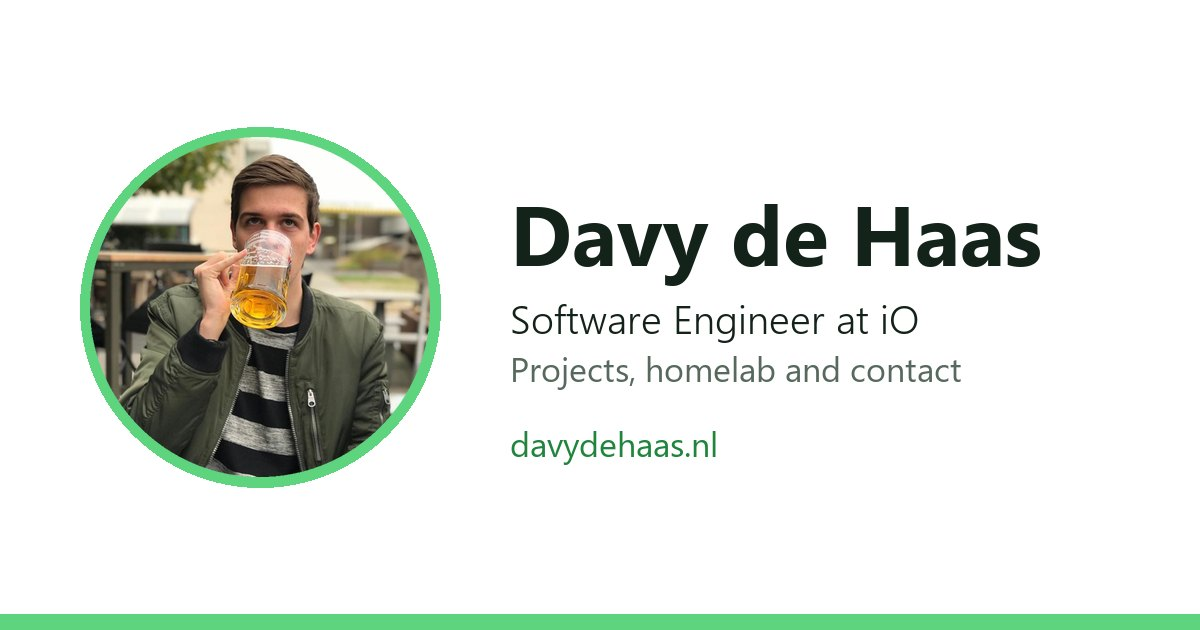
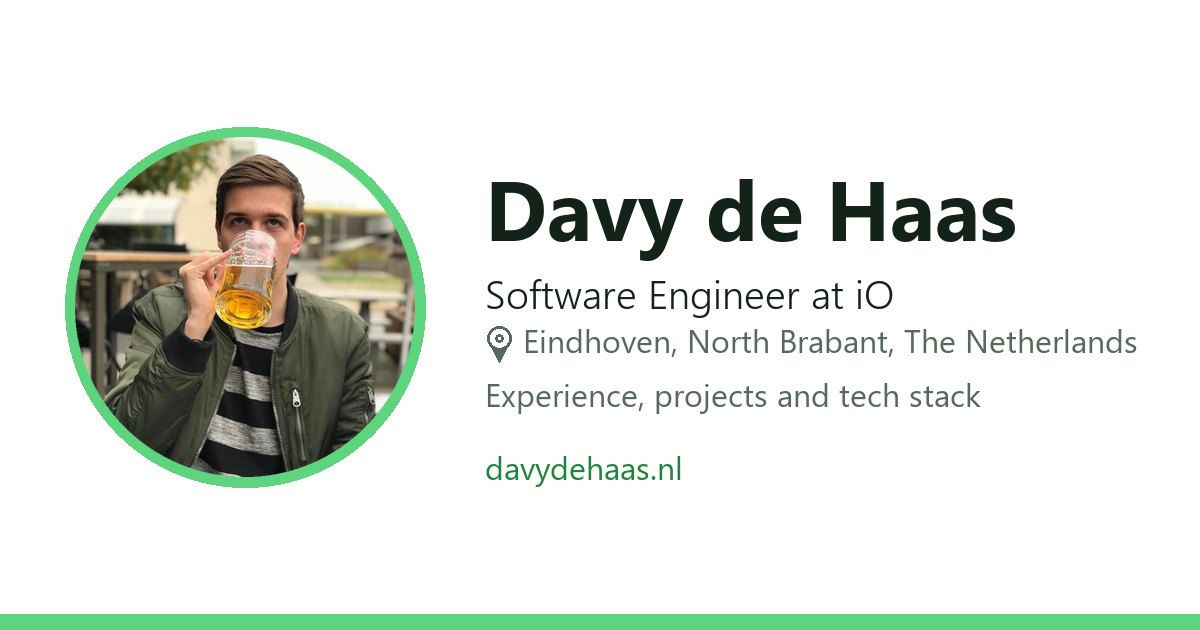
Add the location and a longer intro

Changed region(s): [[0.0308, 0.181, 0.37, 0.7841], [0.4008, 0.2714, 0.9558, 0.6635], [0.4008, 0.6937, 0.6167, 0.7841]]

diff --git a/src/App.test.tsx b/src/App.test.tsx
@@ -39,12 +39,19 @@ describe('App', () => {
 
     expect({
       name: screen.getByRole('heading', { level: 1 }).textContent,
+      intro: texts(within(document.getElementById('home')!).getAllByRole('paragraph')),
       sections: screen.getAllByRole('region').map((region) => region.id),
       navigation: within(nav)
         .getAllByRole('link')
         .map((link) => [link.textContent, link.getAttribute('href')]),
     }).toEqual({
       name: 'Davy de Haas',
+      intro: [
+        'Software Engineer at iO',
+        'Eindhoven, North Brabant, The Netherlands',
+        'I build backend systems and the infrastructure they run on. At iO I work on software for clients such as Brussels Airport, Signify, Basispoort, Nationale Apotheek and Favorite Gifts, mostly with Java (Spring) and TypeScript (NestJS). At home I run a Kubernetes cluster on Talos Linux, which also hosts this website.',
+        'Tech stack',
+      ],
       sections: ['experience', 'projects', 'contact'],
       navigation: [
         ['Davy de Haas', '#home'],
@@ -120,15 +127,15 @@ describe('App', () => {
       ),
     }).toEqual({
       current: {
-        details: ['iO · Full-time', 'Eindhoven'],
+        details: ['iO · Full-time', 'Eindhoven, North Brabant, The Netherlands'],
         when: ['Jan 2022 – Present', '4 yrs 11 mos'],
       },
       internship: {
-        details: ['The Valley · Internship', 'Amsterdam'],
+        details: ['The Valley · Internship', 'Amsterdam, North Holland, The Netherlands'],
         when: ['Feb 2019 – Jul 2019', '6 mos'],
       },
       study: {
-        details: ['Eindhoven University of Technology'],
+        details: ['Eindhoven University of Technology', 'Eindhoven, North Brabant, The Netherlands'],
         when: ['2021 – 2022'],
       },
       // A renewed badge only once, newest first, and no dates.

diff --git a/src/components/home/Home.tsx b/src/components/home/Home.tsx
@@ -1,5 +1,6 @@
 import React from 'react'
 
+import { MapPinIcon } from '../icons/Icons'
 import { TechStack } from './TechStack'
 
 export const Home = (): React.JSX.Element => {
@@ -17,10 +18,15 @@ export const Home = (): React.JSX.Element => {
       />
       <div>
         <h1 className="mb-1 text-[clamp(2rem,5vw,2.75rem)]">Davy de Haas</h1>
-        <p className="mb-3 font-semibold">Software Engineer at iO, Campus Eindhoven.</p>
-        <p className="mx-auto max-w-[55ch] text-muted">
-          Enthusiastic software engineer with a great interest in DevOps, backend architectures and networking
-          infrastructures.
+        <p className="font-semibold">Software Engineer at iO</p>
+        <p className="mt-1 mb-3 flex items-center justify-center gap-1.5 text-muted">
+          <MapPinIcon className="w-4" />
+          Eindhoven, North Brabant, The Netherlands
+        </p>
+        <p className="mx-auto max-w-[70ch] text-balance text-muted">
+          I build backend systems and the infrastructure they run on. At iO I work on software for clients such as
+          Brussels Airport, Signify, Basispoort, Nationale Apotheek and Favorite Gifts, mostly with Java (Spring) and
+          TypeScript (NestJS). At home I run a Kubernetes cluster on Talos Linux, which also hosts this website.
         </p>
         <TechStack />
       </div>

diff --git a/src/components/icons/Icons.tsx b/src/components/icons/Icons.tsx
@@ -74,6 +74,13 @@ export const MailIcon = (props: IconProps): React.JSX.Element => (
   </svg>
 )
 
+export const MapPinIcon = (props: IconProps): React.JSX.Element => (
+  <svg {...base} {...props}>
+    <path {...stroke} d="M20 10c0 5-8 12-8 12s-8-7-8-12a8 8 0 0 1 16 0Z" />
+    <circle {...stroke} cx="12" cy="10" r="3" />
+  </svg>
+)
+
 export const ArrowUpRightIcon = (props: IconProps): React.JSX.Element => (
   <svg {...base} {...props}>
     <path {...stroke} d="M7 17 17 7M8 7h9v9" />

diff --git a/src/components/experience/Experience.tsx b/src/components/experience/Experience.tsx
@@ -50,6 +50,7 @@ export const Experience = (): React.JSX.Element => {
             title={study.degree}
             organisation={study.school}
             link={study.link}
+            location={study.location}
             when={[`${study.start} – ${study.end}`]}
           />
         ))}
